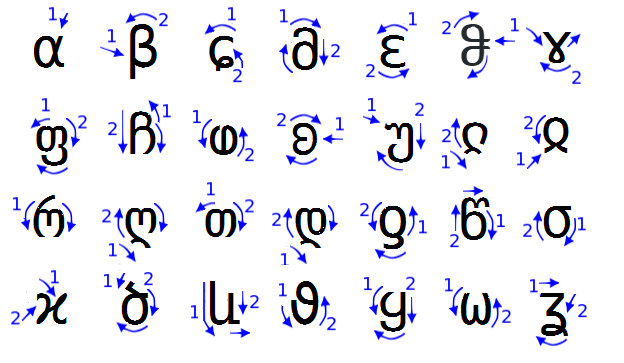
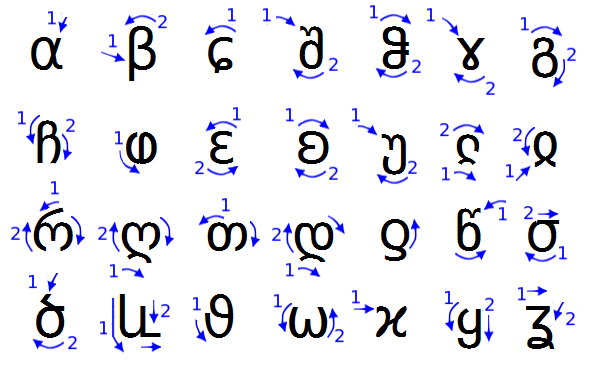
Maj script update

diff --git a/script.md b/script.md
@@ -6,6 +6,22 @@ Maj script is a cursive alphabet with letters from Georgian, Greek and Latin. It
 * Maj script is for writing with stylus on tablet;
 * Maj script is mapped almost 1:1 with Lating alphabet;
 
+## Font
+
+There is not yet a font for Maj script. We have reused different unicode symbols:
+
+```
+α  β  ɕ  შ  ჵ  ɤ  გ  
+ჩ  ⱷ  ɛ  ʚ  უ  ჺ  ჲ  
+რ  ღ  თ  დ  ƍ  წ  σ  
+ծ  և  ϑ  ω  ϰ  ყ  ʓ  
+```
+
+**Demo: Everson Mono**
+
+<img src="maj-font.png" alt="Maj Font" width="400"></img>
+
+
 ## Writing direction
 
 To write a Maj letter correctly you must start with movement 1, then you continue with movement 2 and do not lift your pen until you finish the letter. Some letters have loops and some have full stops with returns. The return is back over the line, or slightly off forming a sharp angle.

diff --git a/alphabet.md b/alphabet.md
@@ -13,9 +13,9 @@ Latin | IPA  | MAJ | Maj Name
   a   | a    | α   | alfa
   b   | b    | β   | beta
   c   | ts   | ɕ   | ceta
-  d   | d    | მ   | dota
+  d   | d    | შ   | dota
   f   | f    | ჵ   | fifa
-  g   | g,dʒ | ɤ,ფ | gama
+  g   | g,dʒ | ɤ,გ | gama
   h   | ɦ,ə  | ჩ,ⱷ | ɦera
   e   | e    | ɛ   | elsa
   i   | i    | ʚ   | iota
